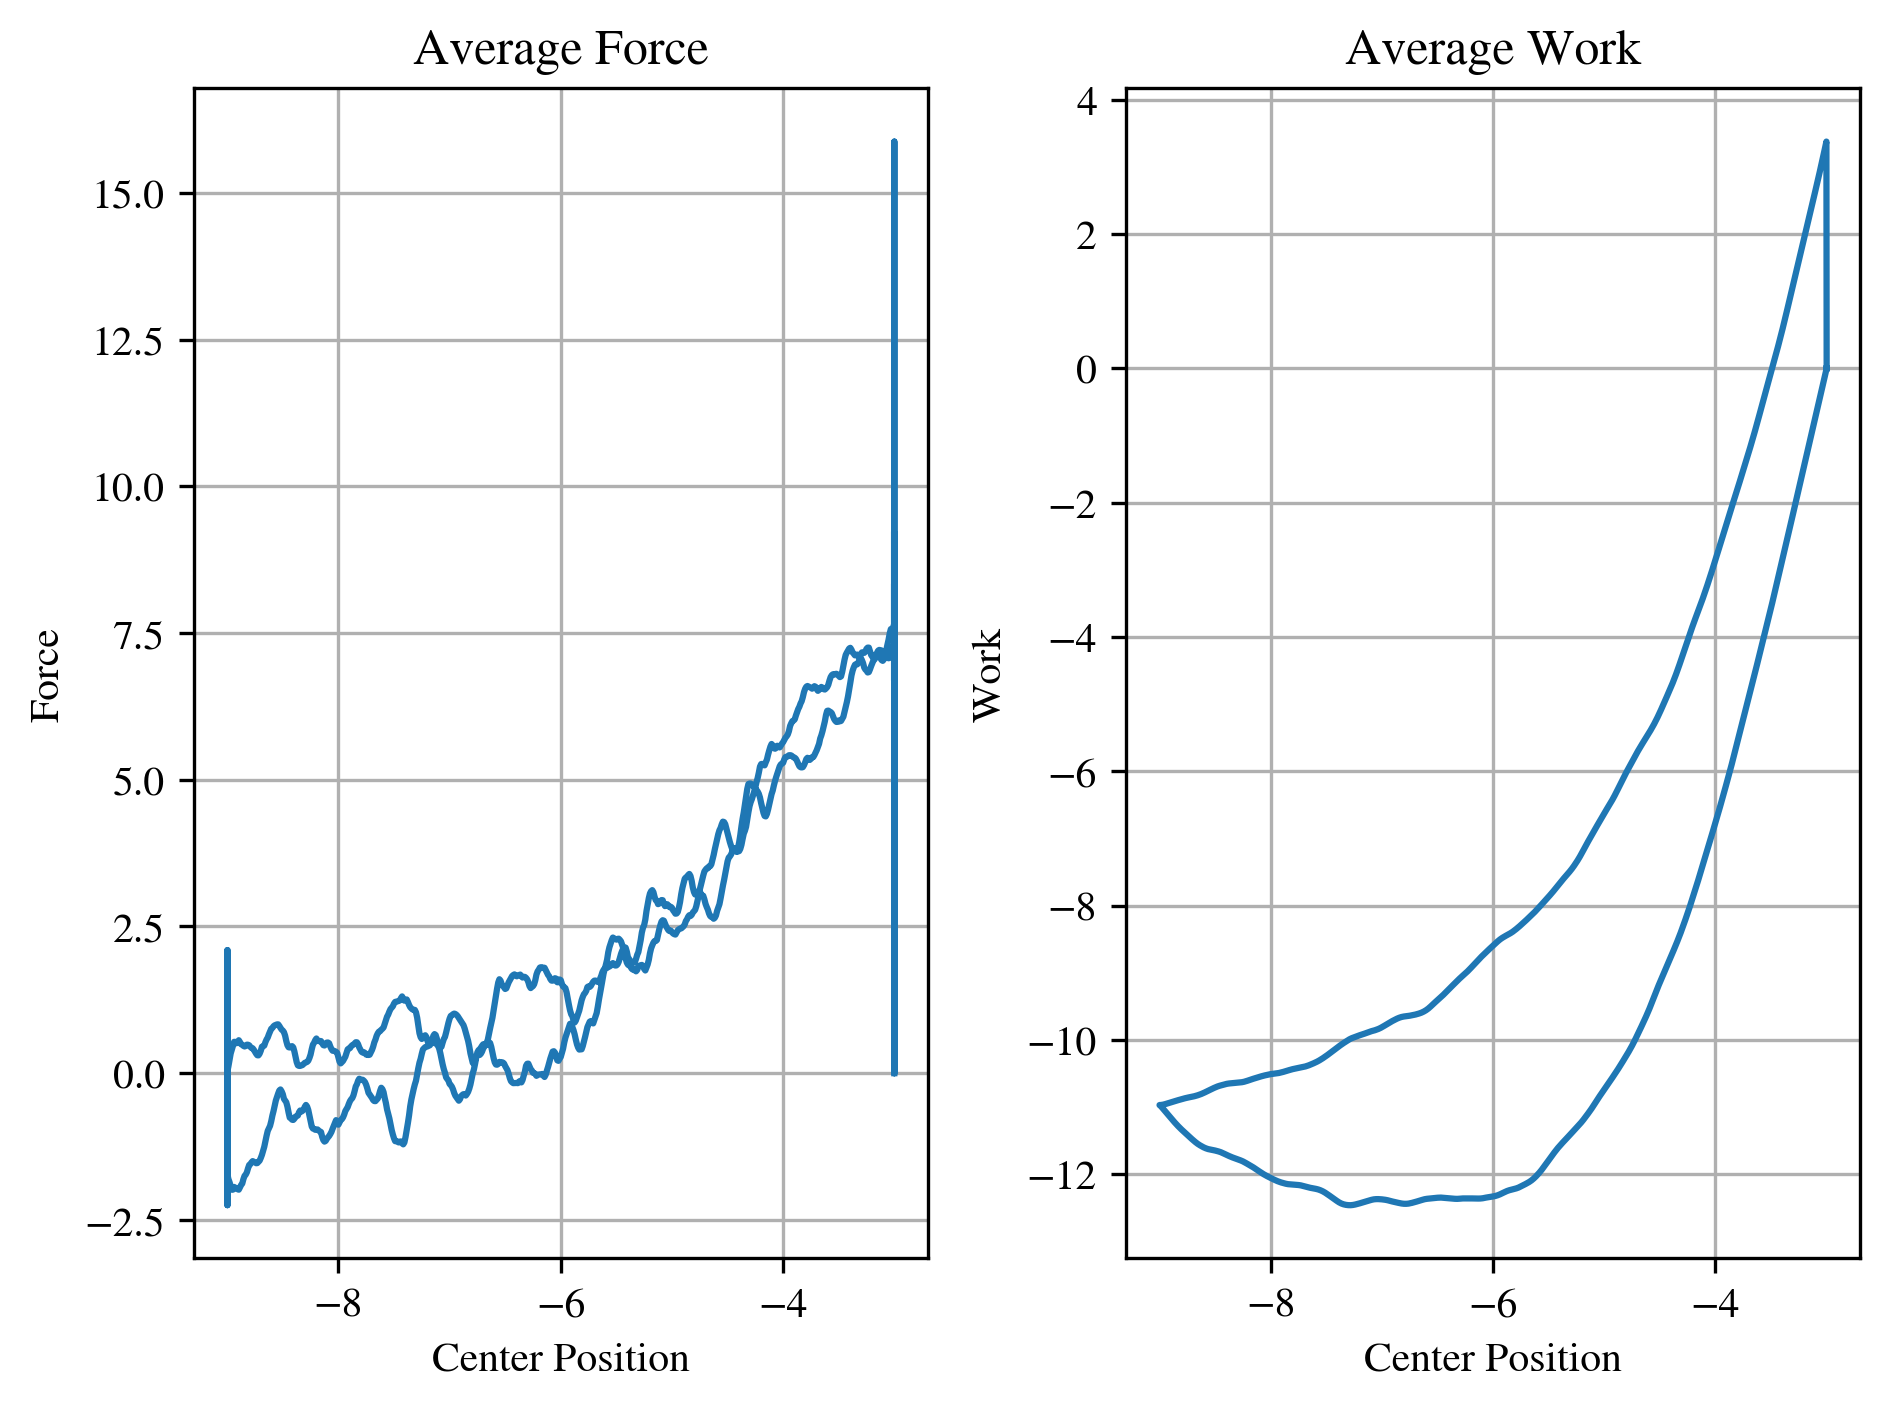
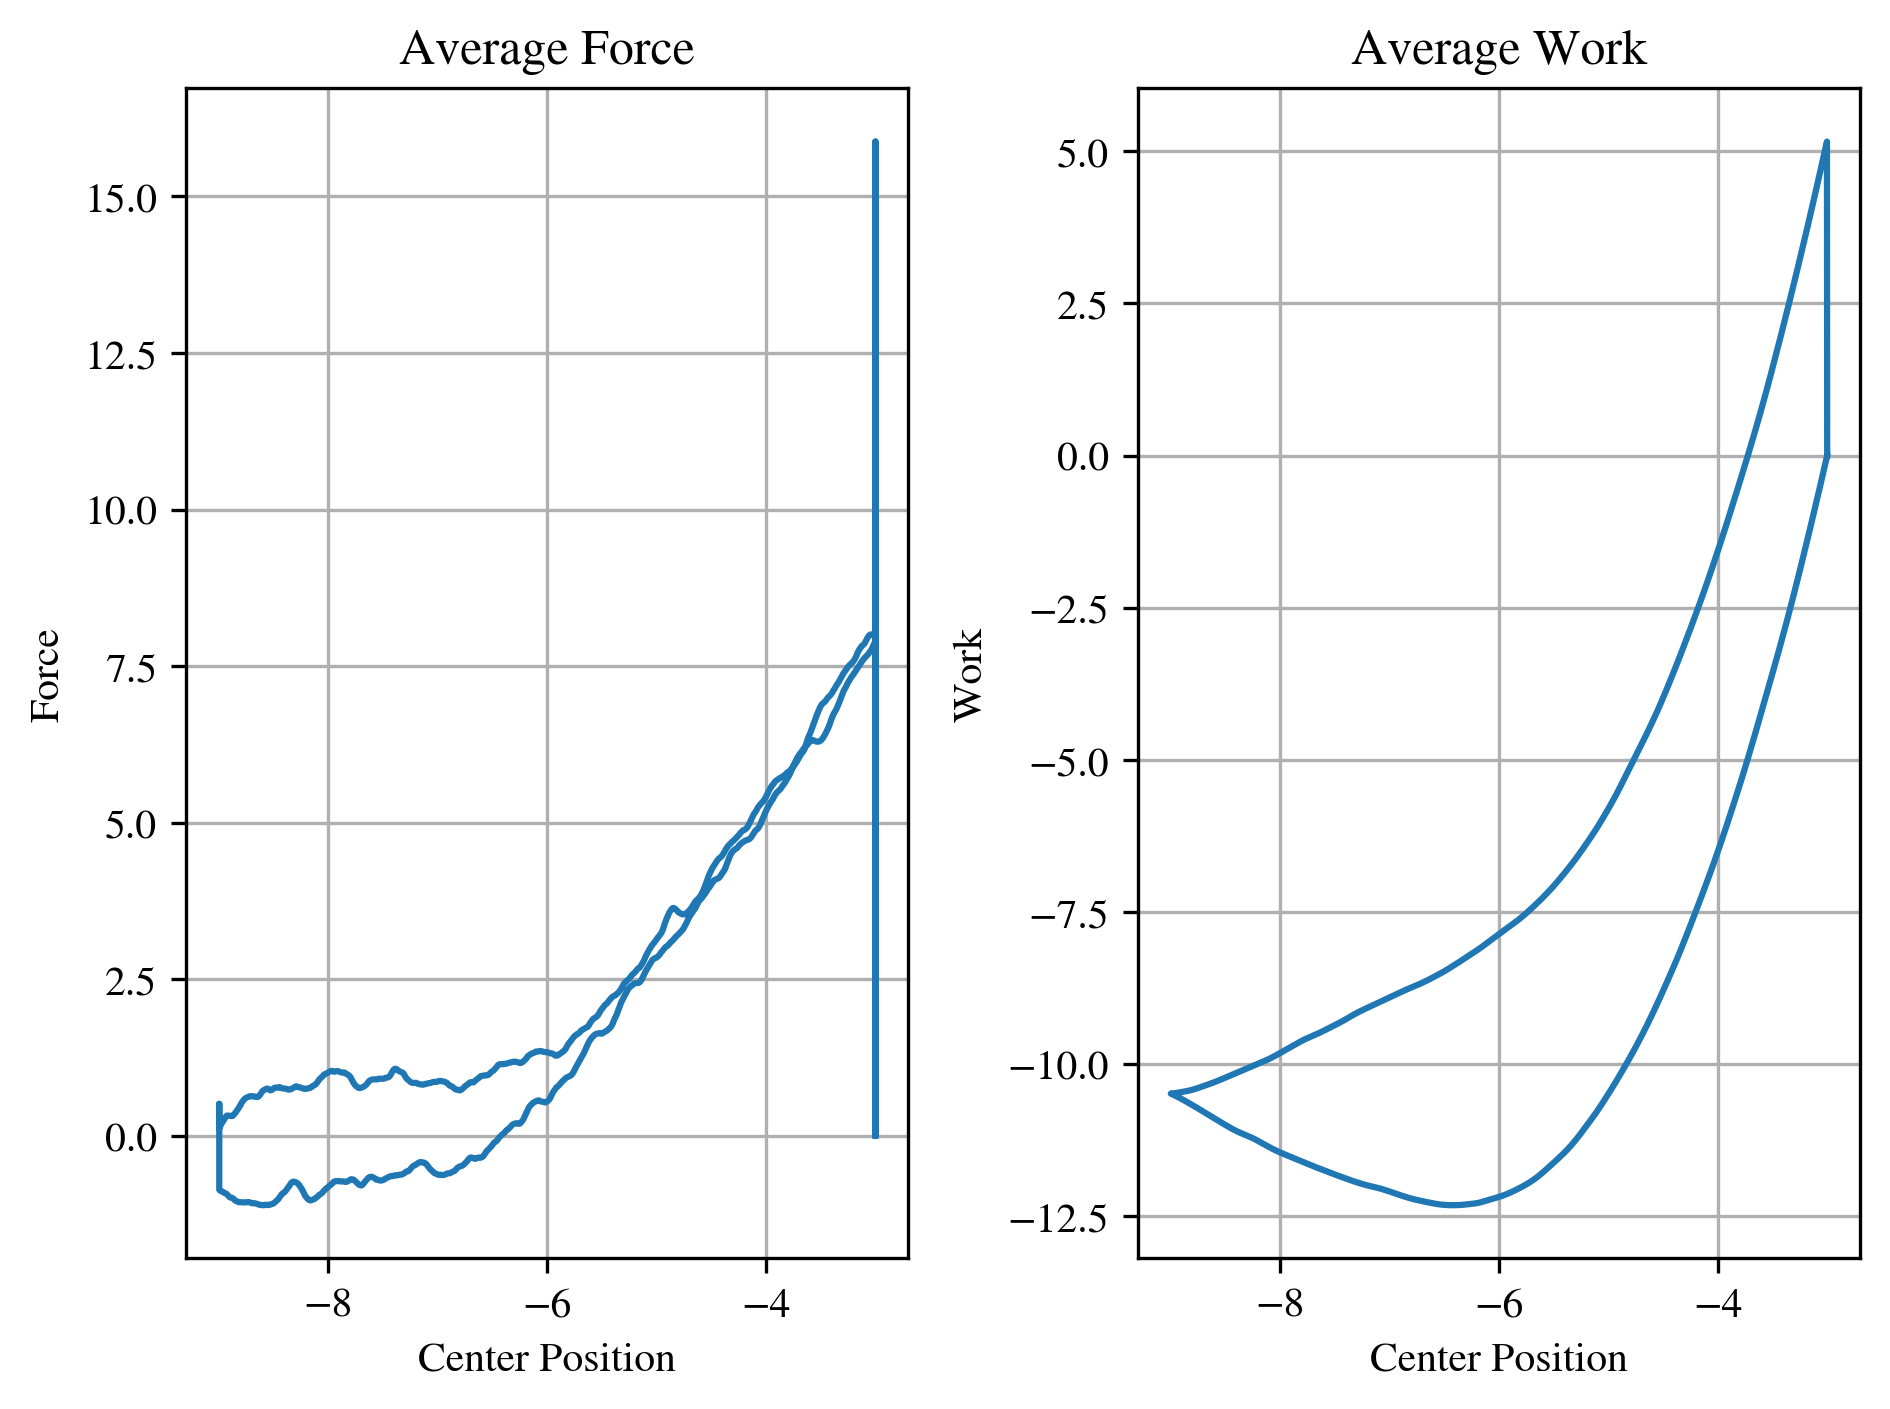
About to test for Jarzynski's equality

diff --git a/code/coupled.cpp b/code/coupled.cpp
@@ -2,7 +2,7 @@
 
 int main(int argc, char** argv){
     double t_end=std::stod(argv[3]), dt=std::stod(argv[2]);
-    int t_imp=5, N=50;;
+    int t_imp=5, N=1000;
     double k=4, k_coupled=4, f=1-exp(-dt*4.001), T=4;
     double c_x[2]={-3, 3};
 
@@ -10,8 +10,8 @@ int main(int argc, char** argv){
     double sep = 18;
     double x0=-(k*c_x[1]+2*k_coupled*thres_bond/2)/(k+2*k_coupled), x1=(k*c_x[1]+2*k_coupled*thres_bond/2)/(k+2*k_coupled);
 
-    double v[2] = {-3000./4800, 3000./4800};
-    double t_eq = 300;
+    double v[2] = {-6./4800, 6./4800};
+    double t_eq = 100;
 
     double t1 = (-sep/2 - c_x[0])/v[0] + t_eq;
 
@@ -19,6 +19,8 @@ int main(int argc, char** argv){
 
     //std::ofstream file("results/coupled_pos.dat");
     //std::ofstream file2("results/coupled_w.dat");
+    std::ofstream file("results/hist_work_v6_4800.dat");
+
     std::vector<double> Fs(t_end/dt,0);
     std::vector<double> Ws(t_end/dt,0);
     std::vector<double> x_cs(t_end/dt,c_x[0]);
@@ -70,21 +72,32 @@ int main(int argc, char** argv){
             W1 += -k*(bs[0].x-bs[0].c_x)*(bs[0].c_x-c_x_prev);
 
             if(int(t/dt)%t_imp == 0){
-                Fs[floor(t/(dt*t_imp))] += -k*(bs[0].x-bs[0].c_x)/N;
-                Ws[floor(t/(dt*t_imp))] += W1/N;
+                Fs[floor(t/(dt*t_imp))] += -k*(bs[0].x-bs[0].c_x);
+                Ws[floor(t/(dt*t_imp))] += W1;
                 x_cs[floor(t/(dt*t_imp))] = bs[0].c_x;
             }
+
+            if(floor(t/dt) == floor((t_eq+2400.)/dt)){
+                file << W1 <<"\t";
+            }
+            else if(floor(t/dt) == floor(5000./dt)){
+                file << W1 <<"\t";
+            }
+            else if(floor(t/dt) == floor(9950./dt)){
+                file << W1 <<"\n";
+            }
+
         }
         gsl_rng_free(r);
     }
-    //file.close();
+    file.close();
     //file2.close();
 
-    std::ofstream file("results/avg_w.dat");
+    std::ofstream avg_file("results/avg_w.dat");
     for(int i=0; i < Ws.size(); i++){
-        file << x_cs[i] << "\t" <<Fs[i] << "\t" <<Ws[i] << "\n";
+        avg_file << x_cs[i] << "\t" <<Fs[i]/N << "\t" <<Ws[i]/N << "\n";
     }
-    file.close();
+    avg_file.close();
 
     return 0;
 }

diff --git a/code/work_hist.py b/code/work_hist.py
@@ -1,0 +1,36 @@
+#!/usr/bin/python
+
+import sys
+import numpy as np
+import pandas as pd
+import matplotlib.pyplot as plt
+import matplotlib as mpl
+mpl.rcParams['mathtext.fontset'] = 'stix'
+mpl.rcParams['font.family'] = 'STIXGeneral'
+
+data = []
+data.append(pd.read_csv('results/hist_work_v6_4800.dat', delimiter='\t'))
+data.append(pd.read_csv('results/hist_work_v10_48.dat', delimiter='\t'))
+data.append(pd.read_csv('results/hist_work_v30_48.dat', delimiter='\t'))
+label = ['v = 6/4800', 'v = 10/48', 'v=30/48']
+
+bins = int(sys.argv[1])
+
+fig, ax = plt.subplots(1,3,layout='tight')
+for j in range(len(data[0].columns)):
+    avg = np.average(data[0].iloc[:,j])
+    for i in range(len(data)):
+        bin_heights, bin_borders, _ = ax[j].hist(data[i].iloc[:,j]-avg,bins,histtype='step', label=label[i])
+
+fig.suptitle('Work histograms')
+fig.text(0.5, 0.01, 'Work', ha='center')
+ax[0].grid()
+ax[0].set_title(r'$x_{c}=-6$')
+ax[1].grid()
+ax[1].set_title(r'$x_{c}=-9$')
+ax[2].grid()
+ax[2].set_title(r'$x_{c}=-3$')
+ax[1].legend()
+
+#plt.show()
+plt.savefig('results/hist_work.png', format='png',bbox_inches='tight',dpi=300)
